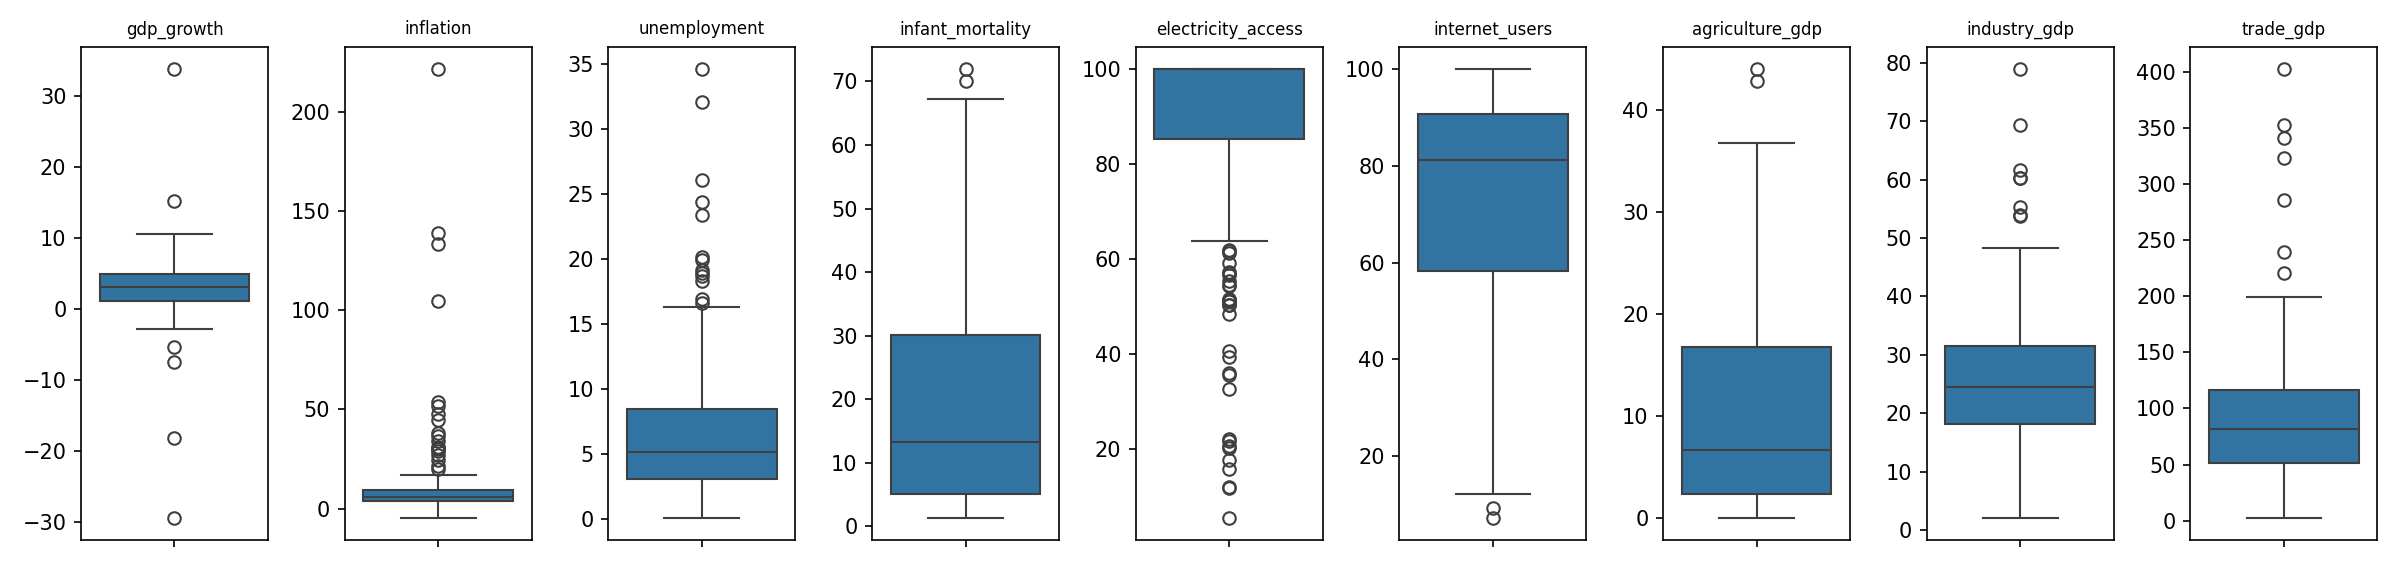
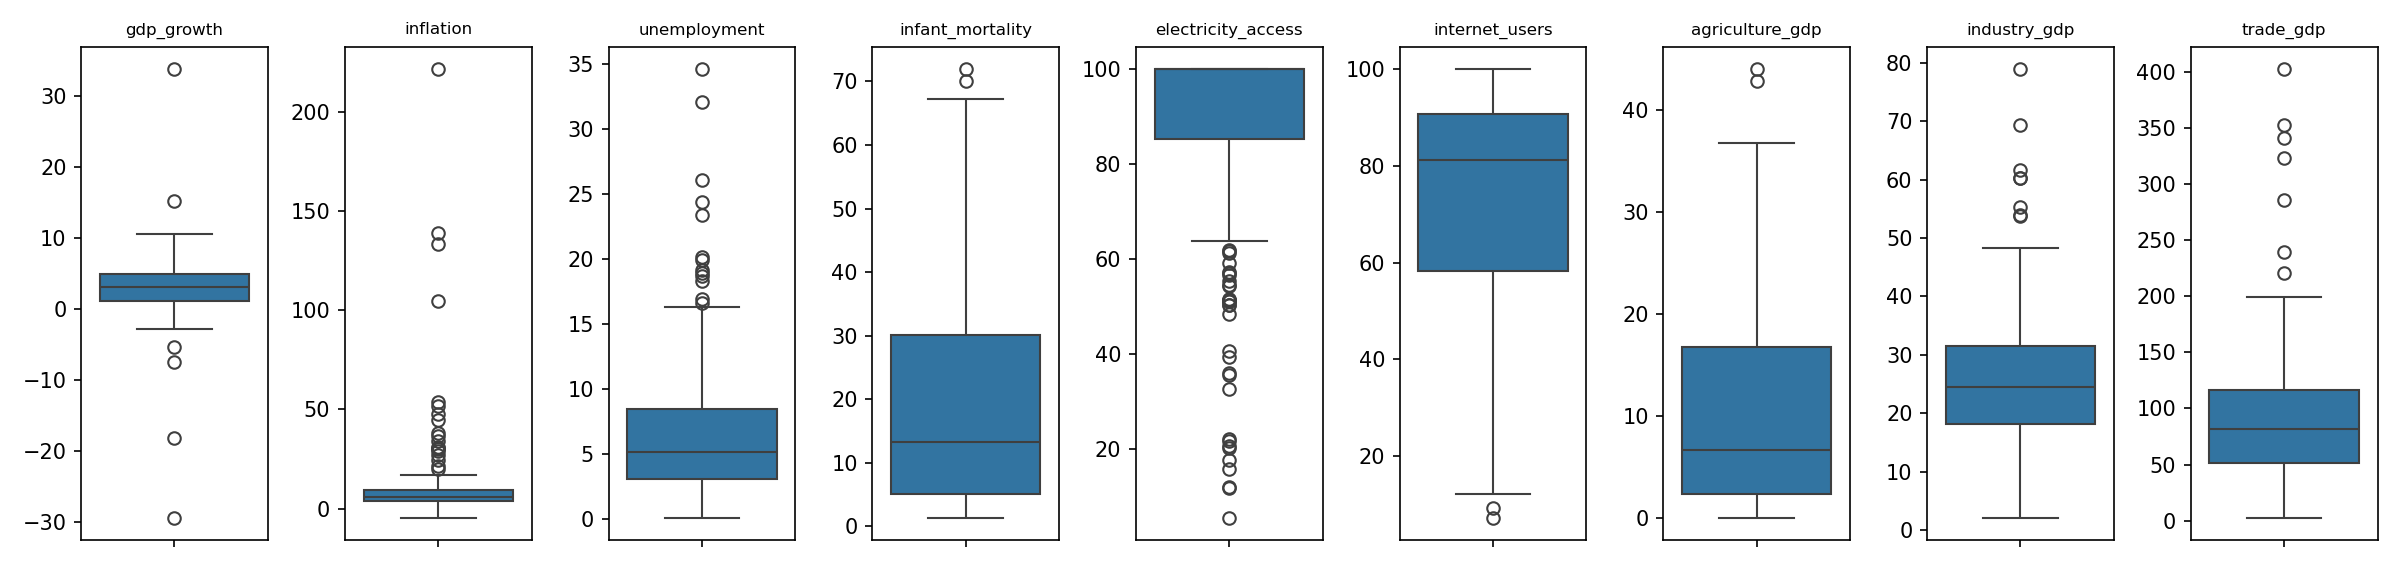
Final cleanup: full README, wording fixes in 03a/03b, 01_data edits
- README: project summary, team, structure, how to run, sources, method, key results
- 03b: test-set sentence reworded; infant mortality importance 0.096 (matches current run)
- 03a: feature-set wording corrected (changes within +/-0.01); empty cell removed
- 01_data: Tanish's text edits; World Bank access date 25 Nov

diff --git a/README.md b/README.md
@@ -1,15 +1,148 @@
-# DS203 Project: HDI-based development classification
+# Economic Development Classification Using HDI
+
+**DS203 Project, Classification track (2026)**
+
+Can widely available economic, infrastructure, health and geographic indicators classify countries into
+HDI-based development categories? We build a country-level dataset for the reference year 2023, explore it, and
+compare a majority-class baseline, multinomial logistic regression, a decision tree and a random forest inside
+leakage-free scikit-learn pipelines.
+
+| | |
+|---|---|
+| **Report** | [`report/report.pdf`](report/report.pdf) |
+| **Video (10 min)** | _link to be added_ |
+| **Dataset** | [`data/hdi_wdi_2023.csv`](data/hdi_wdi_2023.csv) (193 countries), described in [`data/data_dictionary.md`](data/data_dictionary.md) |
 
 ## Team
-- Member A: data and preprocessing
-- Member B: modelling and evaluation
-- Member C: EDA, documentation and presentation
 
-## Conventions
-- Reference year 2023; look-back window 2021–2022 (never after 2023)
-- random_state = 42 everywhere
-- Notebooks: 01_data.ipynb (A), 02_EDA.ipynb (C), 03_modelling.ipynb (B)
-- Main dataset: data/hdi_wdi_2023.csv
+| Member | Roll no. | Responsibility |
+|---|---|---|
+| Tanish Jain | _roll no._ | Data acquisition, dataset construction, preprocessing experiments (`01_data`, `03a_preprocessing`) |
+| Ruturva | _roll no._ | Model training, tuning, evaluation and interpretation (`03b_modelling`) |
+| Arnav | _roll no._ | Exploratory data analysis, documentation and presentation (`02_EDA`) |
+
+## Problem
+
+The target is a three-class grouping of the published 2023 HDI score, defined for this project
+(UNDP officially reports four categories; these classes are **not** an official classification):
+
+| Class | Label | HDI range | Countries |
+|---|---|---|---|
+| 0 | Low | HDI < 0.550 | 26 (13.5%) |
+| 1 | Medium/High | 0.550 ≤ HDI < 0.800 | 93 (48.2%) |
+| 2 | Very High | HDI ≥ 0.800 | 74 (38.3%) |
+
+**Predictors (11):** nine World Bank indicators (GDP growth, inflation, unemployment, infant mortality, access
+to electricity, internet users, agriculture and industry value added as % of GDP, trade as % of GDP), the
+World Bank region, and the engineered `DominantSector` (largest of agriculture, industry and services, where
+services = 100 − agriculture − industry).
+
+**Excluded to avoid target leakage:** the HDI score and category, life expectancy, expected and mean years of
+schooling, and GNI per capita. Country names and ISO3 codes are used only as identifiers.
+
+## Repository structure
+
+```
+├── README.md
+├── requirements.txt
+├── data/
+│   ├── hdi_wdi_2023.csv        final fixed dataset (one row per country)
+│   ├── feature_year_used.csv   year (2021–2023) actually used for every country × indicator
+│   ├── data_dictionary.md      sources, indicator codes, year rule, columns, missingness
+│   └── raw/                    source files exactly as downloaded
+│       ├── HDR25_composite_indices.csv     UNDP HDR 2025 composite indices time series
+│       ├── wb_<indicator code>.csv         one World Bank WDI file per indicator
+│       └── wb_country_metadata.csv         World Bank country metadata (region)
+├── notebooks/
+│   ├── 01_data.ipynb             build the dataset from the raw files
+│   ├── 02_EDA.ipynb              exploratory data analysis (the 6 EDA tasks of the brief)
+│   ├── 03a_preprocessing.ipynb   split, pipeline, imputation, PCA and feature-set experiments
+│   └── 03b_modelling.ipynb       baseline, LR, decision tree, random forest; test evaluation; interpretation
+├── figures/                      all plots, written by the notebooks
+└── report/                       LaTeX report (report.pdf)
+```
 
 ## How to run
-(to be filled in)
+
+**Requirements:** Python 3.10 or later.
+
+```bash
+git clone https://github.com/tanishjain0911-beep/ds203-hdi-classification.git
+cd ds203-hdi-classification
+pip install -r requirements.txt
+jupyter lab            # or: python -m jupyterlab
+```
+
+Open the notebooks from the `notebooks/` folder (all paths are relative to it) and run each one with
+**Kernel → Restart Kernel and Run All Cells**, in this order:
+
+| Order | Notebook | Reads | Writes | Run time |
+|---|---|---|---|---|
+| 1 | `01_data.ipynb` | `data/raw/*` | `data/hdi_wdi_2023.csv`, `data/feature_year_used.csv` | seconds |
+| 2 | `02_EDA.ipynb` | `data/hdi_wdi_2023.csv` | 7 EDA figures | seconds |
+| 3 | `03a_preprocessing.ipynb` | `data/hdi_wdi_2023.csv` | 3 PCA figures | about 1 min |
+| 4 | `03b_modelling.ipynb` | `data/hdi_wdi_2023.csv` | confusion matrices, coefficient and importance figures | 2–3 min |
+
+The final dataset is already included, so notebooks 2–4 can be run without running `01_data.ipynb` first.
+No internet connection is needed. All randomness uses `random_state = 42`, so the results are reproducible.
+
+## Data sources
+
+| Data | Source | Accessed |
+|---|---|---|
+| HDI 2023 (target) | UNDP Human Development Report 2025 release, *Composite indices complete time series* (CSV), column `hdi_2023`: https://hdr.undp.org/data-center/documentation-and-downloads | 23 Nov 2026 |
+| 9 indicators | World Bank World Development Indicators, CSV download per indicator code: https://data.worldbank.org/indicator/ | 25 Nov 2026 |
+| Region | World Bank country metadata (the `Metadata_Country` file included in the WDI download) | 25 Nov 2026 |
+
+**Construction rules** (details in [`data/data_dictionary.md`](data/data_dictionary.md)):
+- Reference year 2023. If a 2023 value is missing, the most recent value from 2022, then 2021, is used;
+  no value after 2023 is ever used. 19 values come from 2021–2022, and the year of every value is recorded.
+- Aggregates removed (HDR codes starting with `ZZ`; World Bank entries without a region).
+- Merged on ISO3 codes: all 195 HDR countries matched, so no manual code corrections were needed.
+  22 World Bank territories without an HDI are excluded.
+- Monaco and DPR Korea are dropped (no 2023 HDI), giving **193 countries**.
+- Missing predictor values (at most 11.9%, for trade) are kept for the imputation experiment.
+
+## Method
+
+1. **Split:** stratified 60 / 20 / 20 train / validation / test split (115 / 39 / 39 countries), with the class
+   proportions preserved in every part.
+2. **Preprocessing:** all learned steps sit inside a `Pipeline` with a `ColumnTransformer`, so they are fitted on
+   training data only and refitted in every cross-validation fold:
+   - sign-preserving log, `sign(x)·log(1+|x|)`, for the skewed `inflation` and `trade_gdp`;
+   - numerical: mean imputation, then standardisation;
+   - categorical: an explicit `"Missing"` category, then one-hot encoding with `handle_unknown="ignore"`.
+3. **Preprocessing experiments** (`03a`): mean vs median imputation, with and without missingness indicators;
+   PCA (explained variance, loadings, models with vs without PCA); numerical-only vs categorical-only vs
+   combined feature sets.
+4. **Models** (`03b`): majority-class baseline, multinomial logistic regression (L2, tuned `C`), decision tree
+   (tuned `max_depth`, `min_samples_leaf`) and random forest (300 trees; tuned `max_depth`, `min_samples_leaf`).
+   Tuning uses `GridSearchCV` with stratified 5-fold cross-validation on the training set and macro F1.
+5. **Evaluation:** the validation set compares the tuned models. Each model is then refitted on train + validation
+   and evaluated **once** on the held-out test set (accuracy, balanced accuracy, macro F1, per-class
+   precision/recall/F1, confusion matrices).
+6. **Interpretation:** logistic-regression coefficients, out-of-fold random-forest permutation importance, and the
+   misclassified test countries.
+
+## Key results
+
+| Model | Best hyperparameters | CV macro F1 (mean ± SD) | Test accuracy | Test balanced acc. | Test macro F1 |
+|---|---|---|---|---|---|
+| Majority baseline | — | 0.216 ± 0.000 | 0.487 | 0.333 | 0.218 |
+| Logistic regression | C = 100 | 0.849 ± 0.094 | 0.795 | **0.708** | **0.708** |
+| Decision tree | max_depth = 4, min_samples_leaf = 3 | 0.801 ± 0.071 | 0.667 | 0.512 | 0.497 |
+| Random forest | max_depth = 5, min_samples_leaf = 1 | **0.895 ± 0.074** | **0.821** | 0.676 | 0.682 |
+
+- All models are far above the majority baseline. The random forest is best in cross-validation and logistic
+  regression is best on the test set; the gap between them is within one CV standard deviation.
+- **Most informative features:** electricity access, infant mortality, internet use and the agriculture share of
+  GDP (random-forest permutation importance 0.171, 0.096, 0.073 and 0.048). Growth, inflation, unemployment
+  and trade contribute almost nothing.
+- **Preprocessing:** mean imputation without missingness indicators worked best. PCA shows one dominant
+  "development" axis (PC1 explains 38.8% of the variance) but does not improve the final models. Region and
+  `DominantSector` change CV macro F1 by at most ±0.01.
+- **Errors** occur almost only between neighbouring classes, mostly for countries whose HDI lies close to the
+  0.550 threshold.
+- **Limitations:** small sample (193 countries, only 5 Low countries in the test set), class imbalance, missingness
+  linked to development, and some indicator values from 2021–2022. The models show **predictive association,
+  not causation**.
